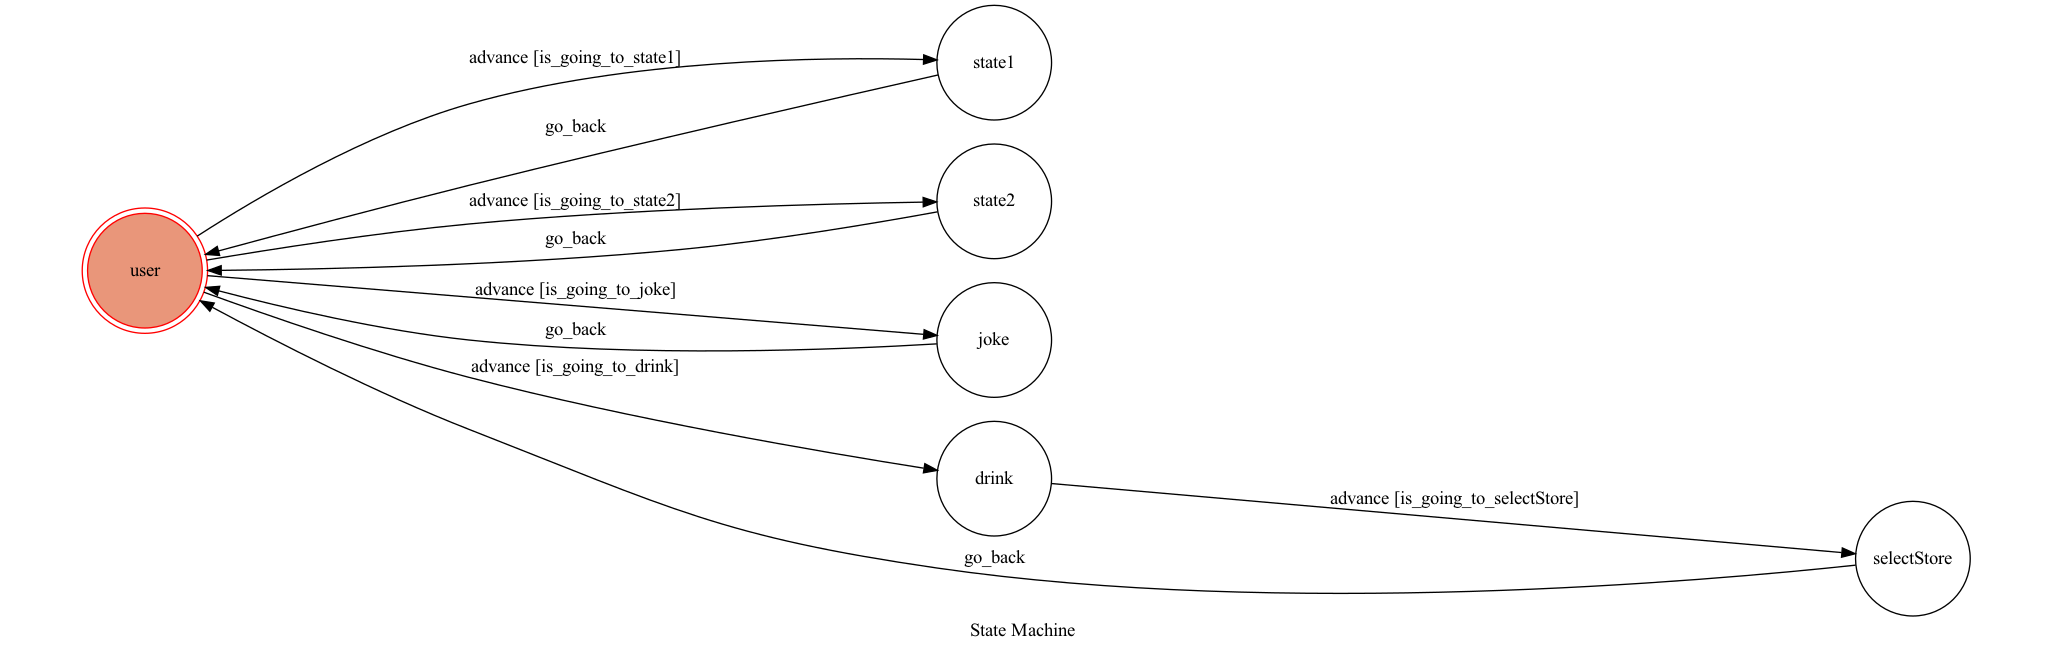
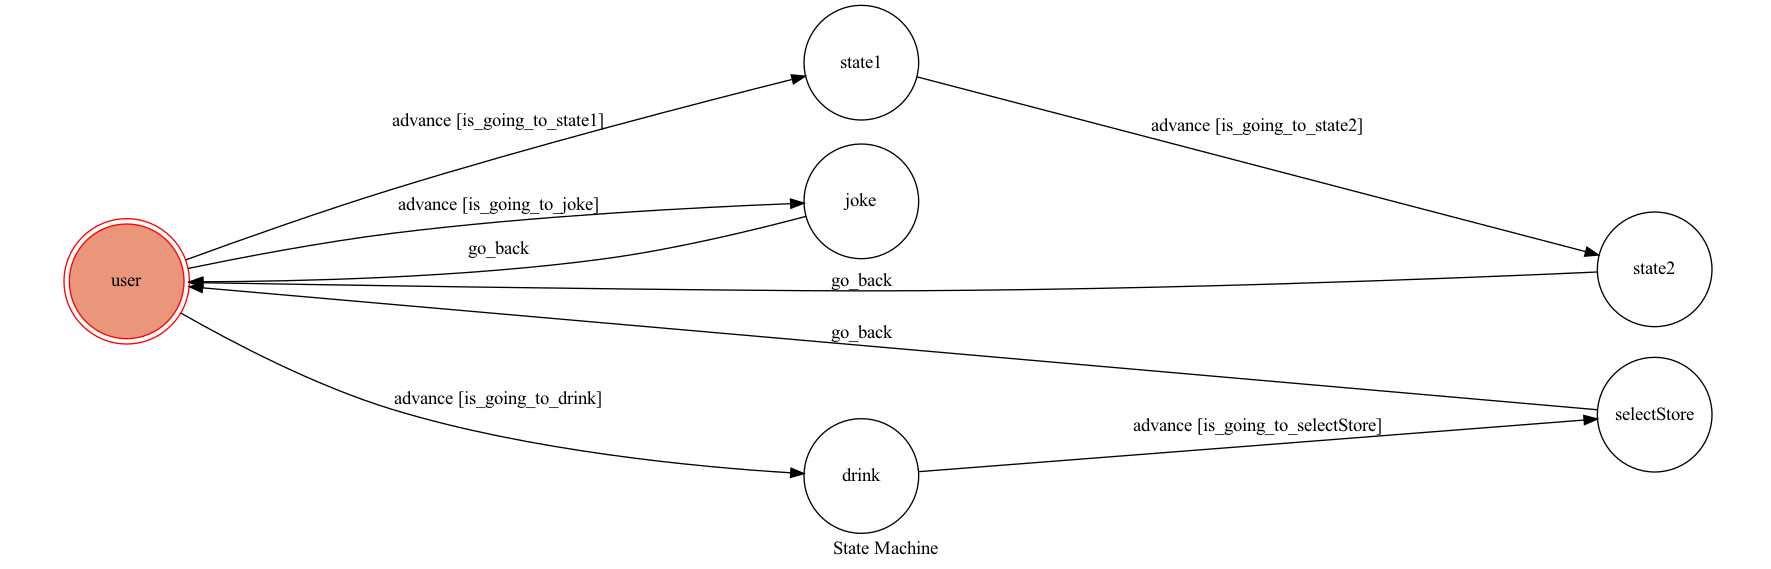
Add select 1 of 2

diff --git a/fsm.py b/fsm.py
@@ -1,5 +1,5 @@
 from transitions.extensions import GraphMachine
-from utils import send_text_message, send_image_message, myAddress
+from utils import send_sticker_message, send_text_message, send_image_message, myAddress
 
 import random
 
@@ -41,51 +41,47 @@ class TocMachine(GraphMachine):
         print("I'm entering drink")
         reply_token = event.reply_token
         send_text_message(
-            reply_token, "輸入店名可取得該店『台南地區』菜單，目前本服務提供的店家有:\n\n迷客夏\n五十嵐\n圓石\n鮮茶道\n\n其餘店家持續更新中")
+            reply_token, "輸入店名可取得該店「台南地區」菜單，目前本服務提供的店家有:\n\n迷客夏\n五十嵐\n圓石\n鮮茶道\n\n其餘店家持續更新中...\n如果不知道喝什麼就輸入『不知道』，將提供您隨機菜單！")
         #thestore = "已取得" + random.choice(stores) + "的菜單"
         #send_text_message(reply_token, thestore)
         # self.go_back()
 
     def is_going_to_selectStore(self, event):
         text = event.message.text
-        '''if text in stores:
-            thestore = "已取得" + text + "的菜單"
-            send_text_message(event.reply_token, thestore)'''
-
         return (text in stores)
 
     def on_enter_selectStore(self, event):
         print("I'm entering select")
         text = event.message.text
         reply_token = event.reply_token
-        thestore = "已取得" + text + "的菜單"
-        menuIndex = stores.index(text)
-        #send_text_message(reply_token, thestore)
-        #imgAddress = myAddress + '/img/' + menus[0]
-        #send_text_message(reply_token, imgAddress)
-        #imgAddress = myAddress + '/'
-        #send_image_message(event.reply_token, imgAddress)
+        #thestore = "已取得" + text + "的菜單"
+        if text == "不知道":
+            menuIndex = random.randint(0, len(menus))
+        else:
+            menuIndex = stores.index(text)
         send_image_message(reply_token, menus[menuIndex])
         self.go_back()
 
     def is_going_to_state1(self, event):
         text = event.message.text
-        return ("新年" in text)
+        return ("選擇障礙" in text)
 
     def on_enter_state1(self, event):
         print("I'm entering state1")
         reply_token = event.reply_token
-        send_text_message(reply_token, "新年快樂！")
-        self.go_back()
+        send_text_message(reply_token, "想問什麼？我能幫你二選一喔！")
 
     def is_going_to_state2(self, event):
-        text = event.message.text
-        return ("熊家族" in text or "買" in text)
+        return 1
 
     def on_enter_state2(self, event):
         print("I'm entering state2")
         reply_token = event.reply_token
-        send_text_message(reply_token, "再買就剁手")
+        result = random.random()
+        if result < 0.5:
+            send_sticker_message(reply_token, '8525', '16581290')
+        else:
+            send_sticker_message(reply_token, '8522', '16581287')
         self.go_back()
 
     '''

diff --git a/app.py b/app.py
@@ -11,7 +11,6 @@ from fsm import TocMachine
 from utils import send_text_message, send_image_message, myAddress
 
 load_dotenv()
-#myAddress = 'https://9e89-218-166-130-174.ngrok.io'
 machine = TocMachine(
     states=["user", "state1", "state2", "joke", "drink", "selectStore"],
     transitions=[
@@ -23,7 +22,7 @@ machine = TocMachine(
         },
         {
             "trigger": "advance",
-            "source": "user",
+            "source": "state1",
             "dest": "state2",
             "conditions": "is_going_to_state2",
         },
@@ -47,7 +46,7 @@ machine = TocMachine(
         },
         {
             "trigger": "go_back",
-            "source": ["state1", "state2", "joke", "selectStore"],
+            "source": ["state2", "joke", "selectStore"],
             "dest": "user"
         },
     ],
@@ -130,7 +129,11 @@ def webhook_handler():
                 send_image_message(event.reply_token, fsmAddress)
             elif machine.state == 'user':
                 send_text_message(event.reply_token,
-                                  '輸入『講笑話』或 『joke』可獲得笑話一則\n輸入『喝飲料』或『drink』獲得飲料店資訊\n')
+                                  '輸入『講笑話』或 『joke』可獲得笑話一則\n輸入『喝飲料』或『drink』獲得飲料店資訊\n輸入『fsm』可取得當前fsm圖片\n輸入『選擇障礙』可以問個是非題，讓我幫你決定！')
+            elif machine.state == 'drink':
+                send_text_message(event.reply_token,
+                                  "輸入店名可取得該店「台南地區」菜單，目前本服務提供的店家有:\n\n迷客夏\n五十嵐\n圓石\n鮮茶道\n\n其餘店家持續更新中...\n不知道喝什麼就輸入『不知道』，將提供您隨機菜單！")
+
             else:
                 send_text_message(event.reply_token, "Not Entering any State")
 

diff --git a/utils.py b/utils.py
@@ -1,11 +1,13 @@
 import os
 
 from linebot import LineBotApi, WebhookParser
-from linebot.models import MessageEvent, TextMessage, TextSendMessage, TemplateSendMessage, ImageCarouselColumn, ImageCarouselTemplate, URITemplateAction, ButtonsTemplate, MessageTemplateAction, ImageSendMessage
+from linebot.models import MessageEvent, TextMessage, TextSendMessage, TemplateSendMessage, ImageCarouselColumn
+from linebot.models import StickerSendMessage, ImageCarouselTemplate, URITemplateAction, ButtonsTemplate, MessageTemplateAction, ImageSendMessage
 
 
 channel_access_token = os.getenv("LINE_CHANNEL_ACCESS_TOKEN", None)
-myAddress = 'https://hwbotelsie.herokuapp.com'
+#myAddress = 'https://hwbotelsie.herokuapp.com'
+myAddress = 'https://a1bf-218-166-130-174.ngrok.io'
 
 
 def send_text_message(reply_token, text):
@@ -21,7 +23,16 @@ def send_image_message(reply_token, url):
         preview_image_url=url
     )
     line_bot_api.reply_message(reply_token, message)
+    return "OK"
 
+
+def send_sticker_message(reply_token, packageID, stickerID):
+    line_bot_api = LineBotApi(channel_access_token)
+    sticker_message = StickerSendMessage(
+        package_id=packageID,
+        sticker_id=stickerID
+    )
+    line_bot_api.reply_message(reply_token, sticker_message)
     return "OK"
 
 
